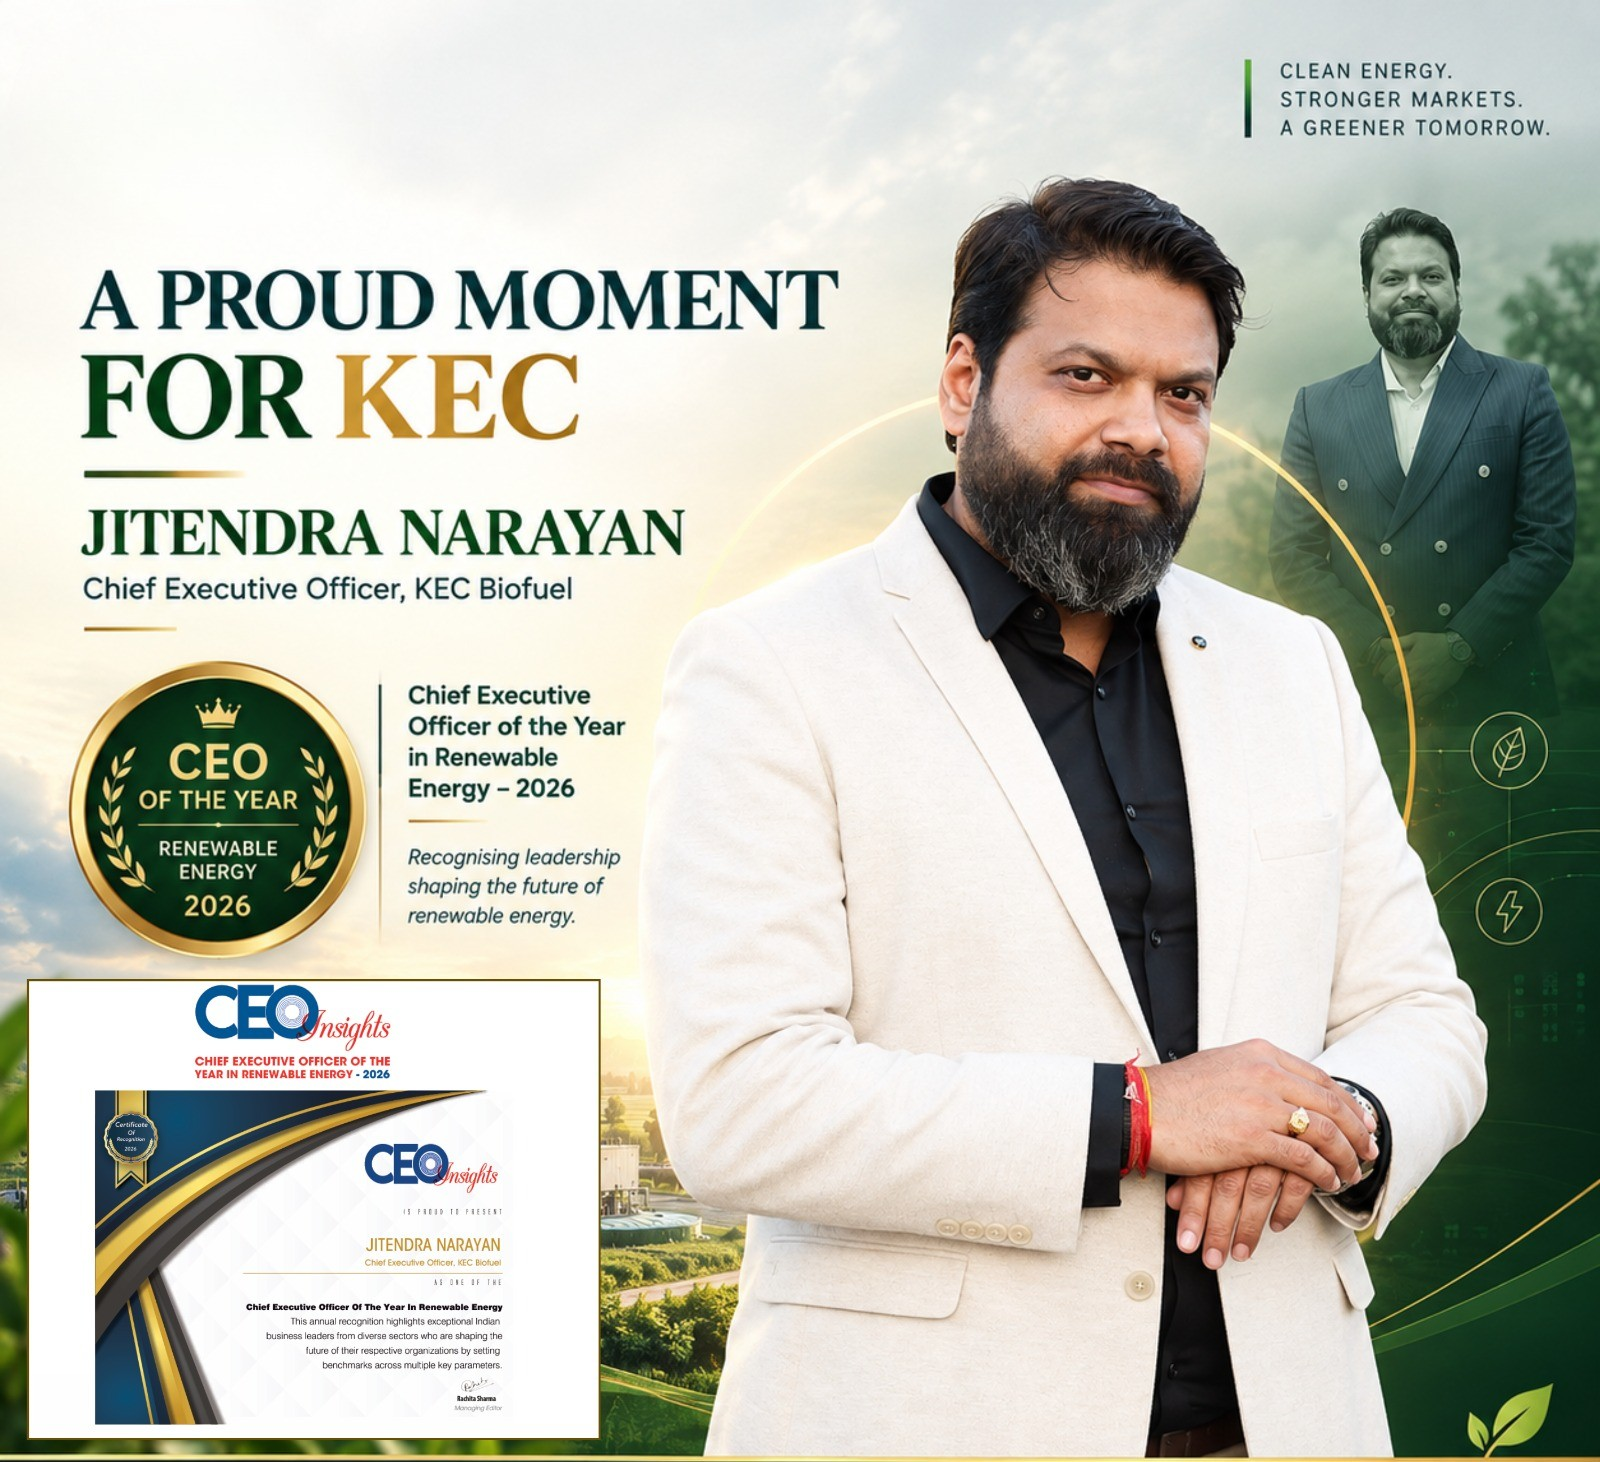
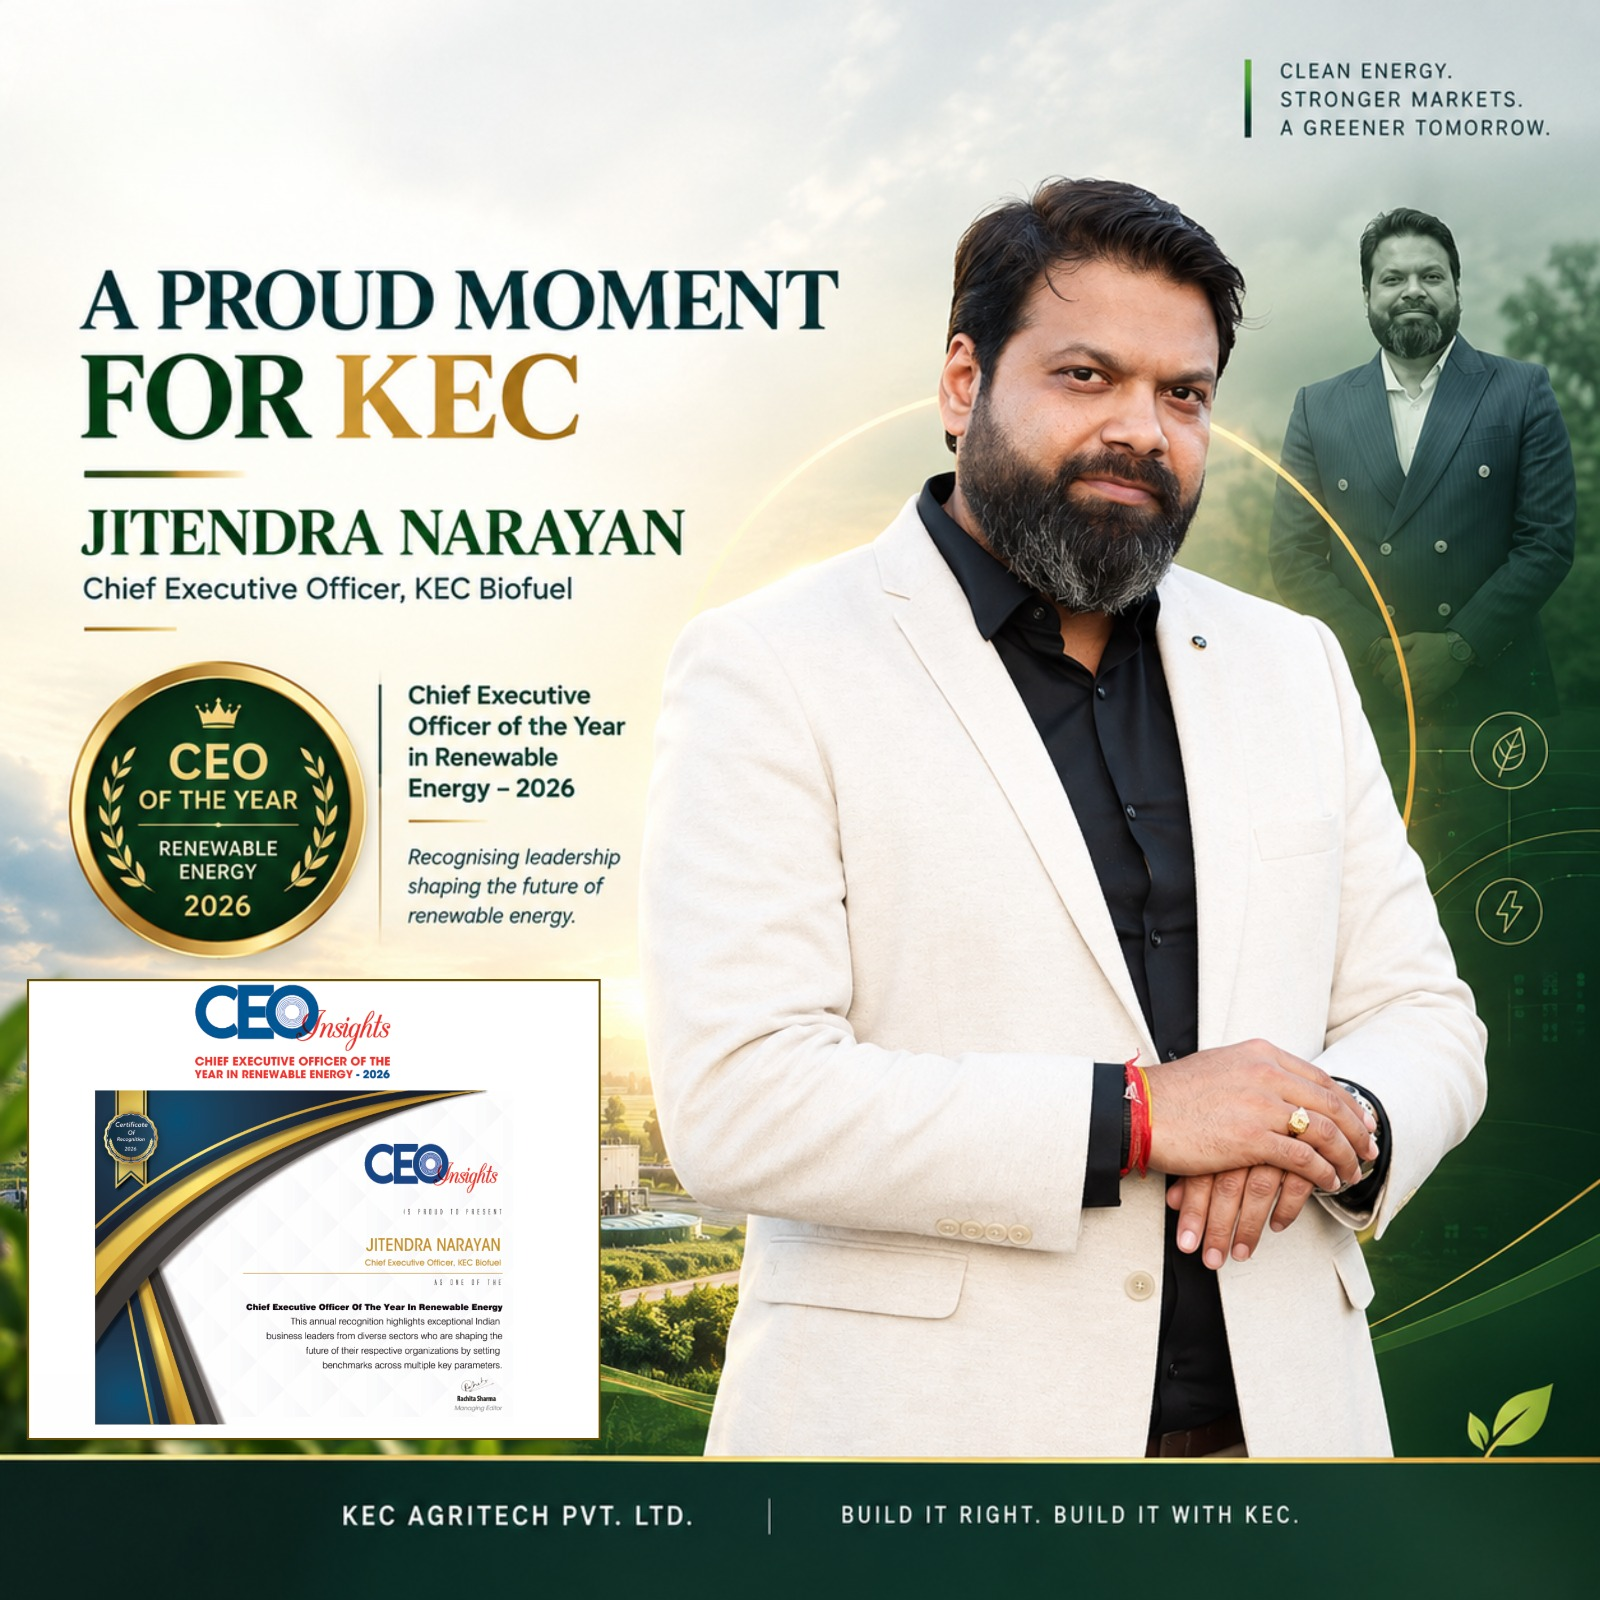
fit to screen

diff --git a/src/app/Components/GalleryScrollContent.jsx b/src/app/Components/GalleryScrollContent.jsx
@@ -227,14 +227,14 @@ const GalleryScrollContent = ({
 
               {/* Left Side – Image */}
               <div className="xl:w-3/5 relative group">
-                <div className="relative h-96 xl:h-[500px] overflow-hidden">
+                <div className="relative w-full h-auto overflow-hidden">
                   {currentItem.image?.endsWith(".mp4") ? (
                     <video
                       src={currentItem.image}
                       controls
                       autoPlay
                       loop
-                      className={`w-[750px] h-full object-cover transition-all duration-700 group-hover:scale-105 ${isChanging ? 'image-fade-out' : 'image-fade-in'}`}
+                      className={`w-full h-auto block transition-all duration-700 group-hover:scale-105 ${isChanging ? 'image-fade-out' : 'image-fade-in'}`}
                     />
                   ) : (
                     <Image
@@ -242,7 +242,7 @@ const GalleryScrollContent = ({
                       alt={currentItem.title}
                       width={800}
                       height={600}
-                      className={`w-full h-full object-cover transition-all duration-700 group-hover:scale-105 ${isChanging ? 'image-fade-out' : 'image-fade-in'}`}
+                      className={`w-full h-auto block transition-all duration-700 group-hover:scale-105 ${isChanging ? 'image-fade-out' : 'image-fade-in'}`}
                     />
                   )}
 

diff --git a/src/app/data/galleryData.jsx b/src/app/data/galleryData.jsx
@@ -29,7 +29,7 @@ export const galleryData = [
 export const ceoAwardData = [
   {
     id: 1,
-    image: "/gallery/coy1.jpeg",
+    image: "/gallery/coy1.png",
     title: "CEO of the Year – Certificate of Recognition",
     subtitle: "Jitendra Narayan Honoured by CEO Insights",
     date: "2026",
@@ -38,7 +38,7 @@ export const ceoAwardData = [
   },
   {
     id: 2,
-    image: "/gallery/coy2.jpeg",
+    image: "/gallery/coy2.png",
     title: "CEO of the Year – Feature Announcement",
     subtitle: "Jitendra Narayan Honoured by CEO Insights",
     date: "2026",
